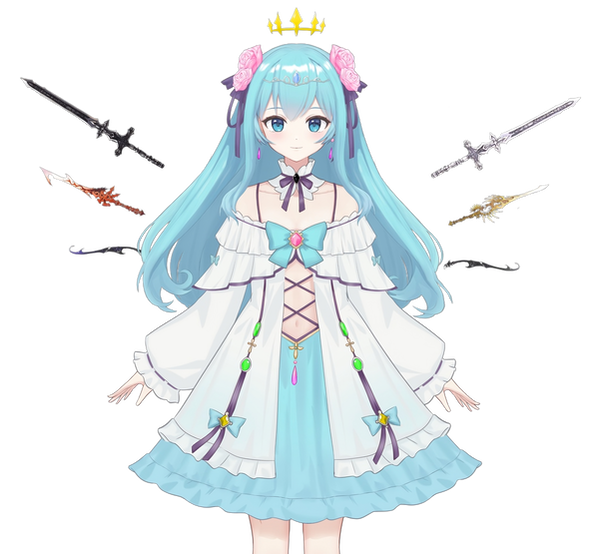
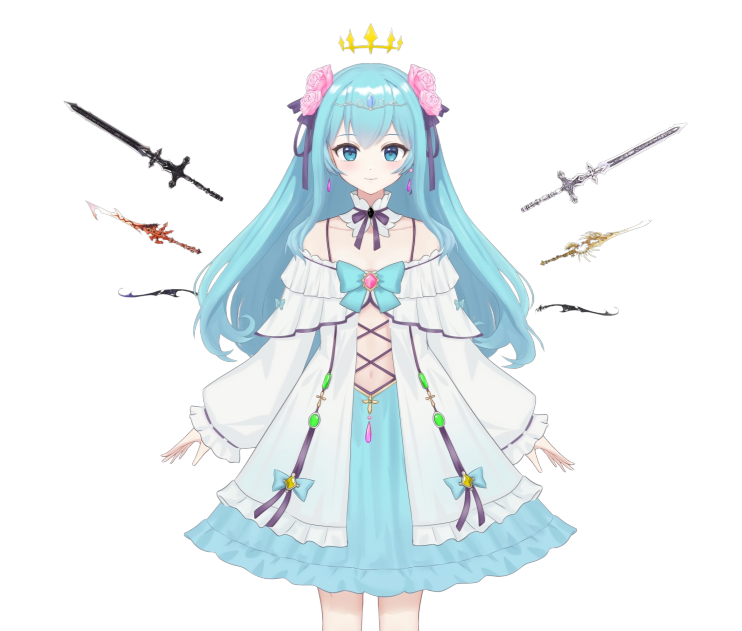
‼ Remove v2 Model

diff --git a/lore.html b/lore.html
@@ -72,7 +72,7 @@
             </p>
         </section>
         <section>
-            <img class="sos-model custom-hover" src="static/media/soulofswords-v2.png" alt="soulofswords live2d model" style="width:auto;max-width:100%;">
+            <img class="sos-model custom-hover" src="static/media/soulofswords-battle-mode.png" alt="soulofswords live2d model" style="width:auto;max-width:100%;">
         </section>
         </div>
     </main>
